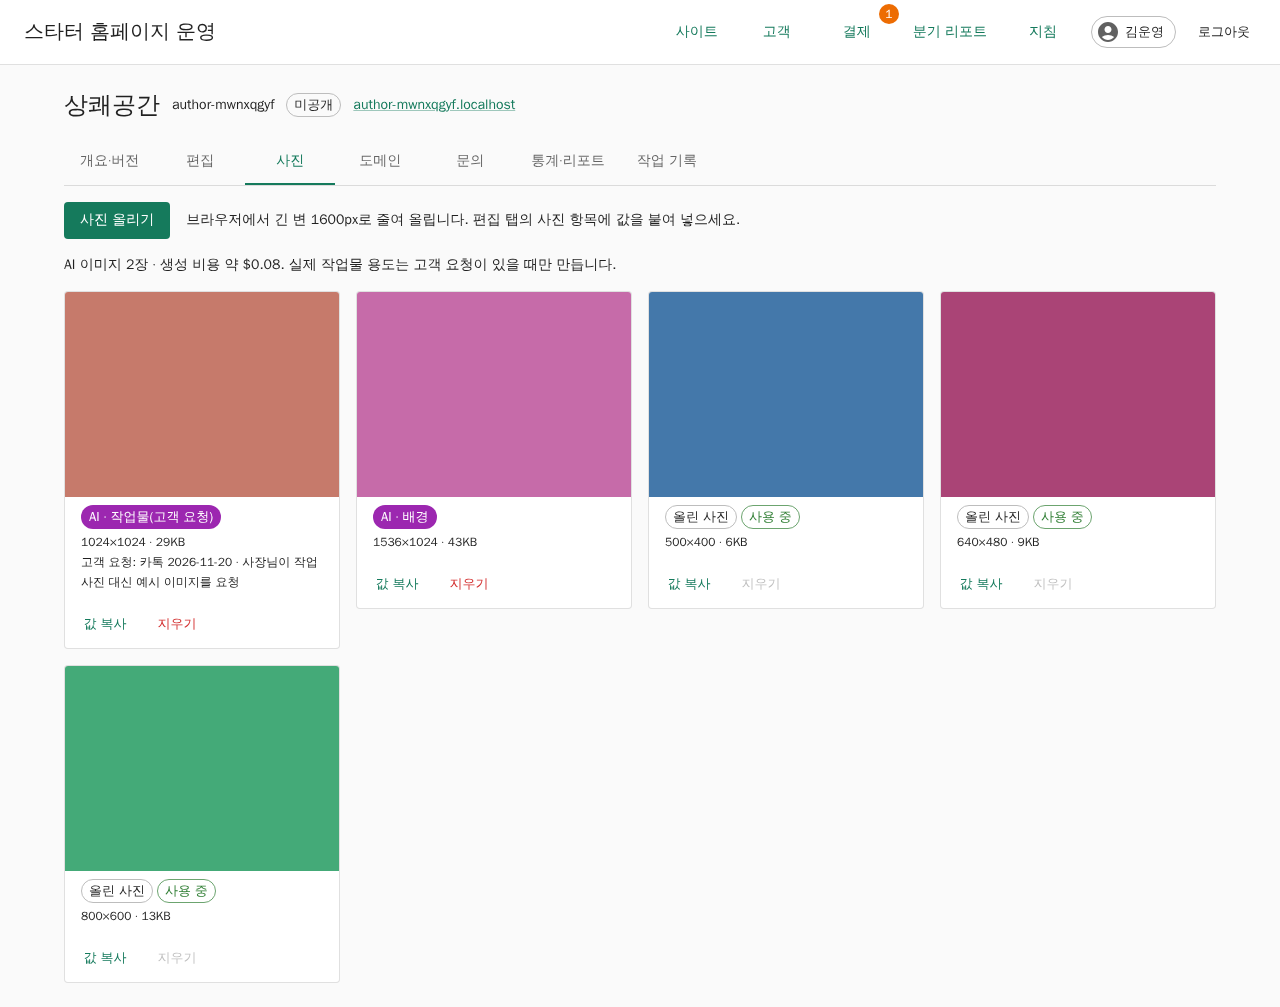
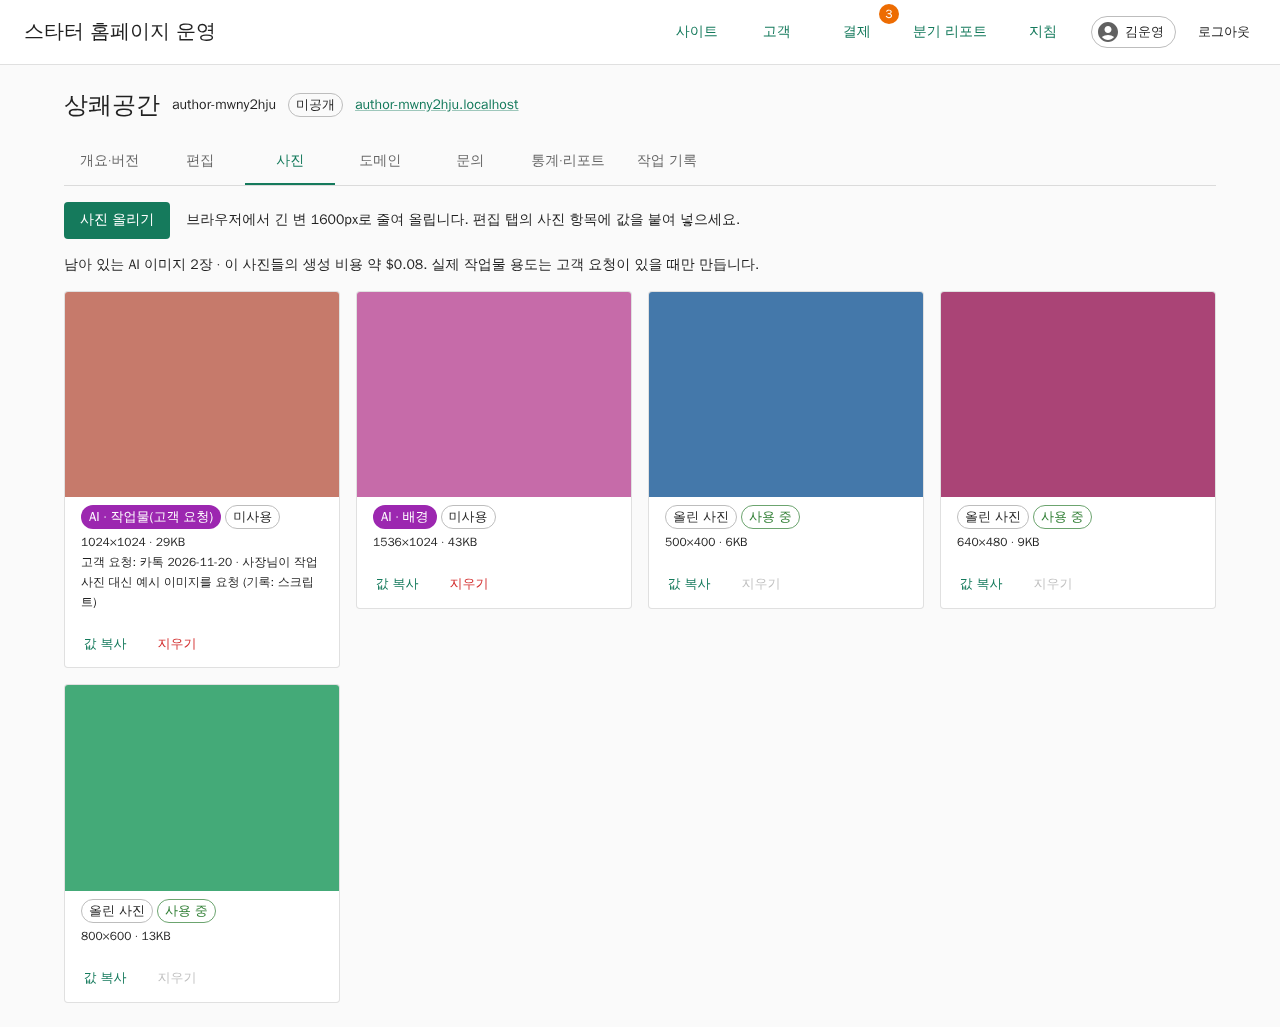
fix: authoring findings from the product-owner test
- 'AI 도구 연결 방법' page: the connection address (console setting
  MCP_URL), steps for Claude and ChatGPT, a first request to copy; linked
  from the sites list. Customers page says who registers customers.
- Activity log shows what AI calls did (an image's purpose, which photo
  was deleted, a replaced draft link); a customer request keeps the
  operator who recorded it.
- Photos: 미사용 marks, cost labelled as the remaining AI images, AI-image
  deletion warns it cannot be recreated. Plainer guides hint; script-made
  versions show 스크립트.
- Agent run: a headless agent built a validated draft through MCP in
  2m33s, 17 turns, $0.87 (M2: 3m17s, $1.02), with customer, guides, an
  AI illustration and a draft link (evidence/m4-authoring/agent-run.md).

Claude-Session: https://claude.ai/code/session_01Uc2o5SHdK7QwPtV2EwnCqy

diff --git a/apps/console/src/pages/AiToolsPage.tsx b/apps/console/src/pages/AiToolsPage.tsx
@@ -1,0 +1,102 @@
+import ContentCopyIcon from "@mui/icons-material/ContentCopy";
+import { Alert, Box, Button, Link, Paper, Stack, Typography } from "@mui/material";
+import { useQuery } from "@tanstack/react-query";
+import { Link as RouterLink } from "react-router";
+import { useToast } from "../ui.js";
+
+const FIRST_REQUEST = `아래 리드로 스타터 홈페이지 시안을 만들어 줘. 게시는 하지 말고 시안 링크까지만.
+사이트 영문 주소는 (예: green-tennis)로 해 줘.
+
+(노션 리드 페이지 내용, 블로그·플레이스 주소, 받은 사진을 붙여 넣기)`;
+
+/** How operators connect Claude or ChatGPT to the platform's tools, in plain words. */
+export function AiToolsPage() {
+  const toast = useToast();
+  const me = useQuery({
+    queryKey: ["me"],
+    queryFn: async () => {
+      const res = await fetch("/auth/me");
+      return res.ok ? ((await res.json()) as { name: string | null; email: string | null; mcpUrl?: string | null }) : null;
+    },
+    staleTime: Infinity,
+  });
+  const url = me.data?.mcpUrl ?? null;
+  const copy = (text: string, done: string) => void navigator.clipboard.writeText(text).then(() => toast(done));
+  return (
+    <Stack spacing={2} sx={{ maxWidth: 820 }}>
+      <Typography variant="h5" sx={{ fontWeight: 700 }}>
+        AI 도구 연결 방법
+      </Typography>
+      <Typography variant="body2" color="text.secondary">
+        홈페이지는 Claude나 ChatGPT에 우리 제작 도구를 연결해 대화로 만듭니다. 한 번 연결하면 AI가 제작 지침을 읽고 고객 등록, 시안 작성, 시안 링크
+        발급까지 합니다. 운영자는 이 콘솔에서 검수·입금 확인·게시합니다. (기술 용어로는 이 연결을 MCP라고 합니다.)
+      </Typography>
+
+      <Paper sx={{ p: 2 }}>
+        <Typography variant="subtitle1" sx={{ fontWeight: 700 }}>
+          연결 주소
+        </Typography>
+        {url ? (
+          <Stack direction="row" spacing={1} sx={{ alignItems: "center", mt: 1 }}>
+            <Box component="code" sx={{ bgcolor: "grey.100", px: 1, py: 0.5, borderRadius: 1 }} data-testid="mcp-url">
+              {url}
+            </Box>
+            <Button size="small" startIcon={<ContentCopyIcon />} onClick={() => copy(url, "연결 주소를 복사했습니다")}>
+              복사
+            </Button>
+          </Stack>
+        ) : (
+          <Typography variant="body2" color="text.secondary">
+            연결 주소가 설정되지 않았습니다. 관리자에게 문의하세요.
+          </Typography>
+        )}
+        <Typography variant="body2" sx={{ mt: 1 }}>
+          로그인은 콘솔과 같은 회사 계정(Authentik)으로 합니다. 운영자 권한이 있어야 쓸 수 있고, AI가 한 일은 내 이름으로 작업 기록에 남습니다.
+        </Typography>
+      </Paper>
+
+      <Paper sx={{ p: 2 }}>
+        <Typography variant="subtitle1" sx={{ fontWeight: 700 }}>
+          Claude에 연결
+        </Typography>
+        <Box component="ol" sx={{ my: 1, pl: 3, "& li": { mb: 0.5 } }}>
+          <li>Claude 설정의 커넥터(Connectors)에서 사용자 지정 커넥터를 추가합니다.</li>
+          <li>이름은 "스타터 홈페이지", 주소는 위의 연결 주소를 붙여 넣습니다.</li>
+          <li>연결을 누르면 회사 계정 로그인 창이 뜹니다. 로그인하면 끝입니다.</li>
+          <li>대화를 시작할 때 이 커넥터가 켜져 있는지 확인합니다.</li>
+        </Box>
+      </Paper>
+
+      <Paper sx={{ p: 2 }}>
+        <Typography variant="subtitle1" sx={{ fontWeight: 700 }}>
+          ChatGPT에 연결
+        </Typography>
+        <Box component="ol" sx={{ my: 1, pl: 3, "& li": { mb: 0.5 } }}>
+          <li>ChatGPT 설정에서 커넥터(앱)를 추가합니다. 사용자 지정 커넥터는 개발자 모드가 필요할 수 있습니다.</li>
+          <li>주소에 연결 주소를 넣고, 인증 방식은 OAuth를 고릅니다.</li>
+          <li>회사 계정으로 로그인합니다.</li>
+        </Box>
+        <Alert severity="info">ChatGPT 연결은 실제 서버에서 아직 확인 전입니다. 막히면 Claude를 쓰세요.</Alert>
+      </Paper>
+
+      <Paper sx={{ p: 2 }}>
+        <Typography variant="subtitle1" sx={{ fontWeight: 700 }}>
+          첫 요청 예시
+        </Typography>
+        <Box component="pre" sx={{ bgcolor: "grey.100", p: 1.5, borderRadius: 1, whiteSpace: "pre-wrap", fontSize: 14 }}>
+          {FIRST_REQUEST}
+        </Box>
+        <Button size="small" startIcon={<ContentCopyIcon />} onClick={() => copy(FIRST_REQUEST, "예시를 복사했습니다")}>
+          예시 복사
+        </Button>
+        <Typography variant="body2" color="text.secondary" sx={{ mt: 1 }}>
+          AI가 따르는 규칙은{" "}
+          <Link component={RouterLink} to="/guides">
+            제작 지침
+          </Link>
+          에 있습니다. 결과는 사이트 목록에 바로 나타나고, 시안 링크는 사이트 개요에서 다시 확인할 수 있습니다.
+        </Typography>
+      </Paper>
+    </Stack>
+  );
+}

diff --git a/apps/api/src/mcp.ts b/apps/api/src/mcp.ts
@@ -127,7 +127,7 @@ function createServer(env: Env, actor: Actor) {
           .describe("purpose가 work일 때 필수: 사장님이 언제 어디서 무엇을 요청했는지"),
       }),
     },
-    async ({ site: ref, ...input }) => run(async () => ({ ...(await generateImage(env, await findSite(env, ref), input)) })),
+    async ({ site: ref, ...input }) => run(async () => ({ ...(await generateImage(env, await findSite(env, ref), input, actorName(actor))) })),
   );
 
   server.registerTool(
@@ -404,6 +404,14 @@ function rpcMessages(contentType: string, body: string): RpcMessage[] {
   });
 }
 
+/** What an AI call did, beyond its name, for the activity log (`purpose=work`, `key=m:…`). */
+function auditDetail(name: string, args: Record<string, unknown>): string | null {
+  if (name === "image_generate" && typeof args.purpose === "string") return `purpose=${args.purpose}`;
+  if (name === "asset_delete" && typeof args.key === "string") return `key=${args.key}`;
+  if (name === "site_preview_link" && args.reissue === true) return "replaced";
+  return null;
+}
+
 /**
  * `/mcp` endpoint. The caller is authenticated (Authentik operator or script); a fresh server
  * serves each request. Changing tool calls are audited with the person behind them and their
@@ -411,14 +419,15 @@ function rpcMessages(contentType: string, body: string): RpcMessage[] {
  * (tool refusals, input validation and unknown tools all arrive over HTTP 200).
  */
 export async function handleMcp(request: Request, env: Env, actor: Actor) {
-  const calls: { id: unknown; name: string; site: string | null }[] = [];
+  const calls: { id: unknown; name: string; site: string | null; detail: string | null }[] = [];
   if (request.method === "POST") {
     try {
       const body = (await request.clone().json()) as unknown;
       for (const message of Array.isArray(body) ? body : [body]) {
-        const m = message as { id?: unknown; method?: string; params?: { name?: string; arguments?: { site?: unknown } } };
+        const m = message as { id?: unknown; method?: string; params?: { name?: string; arguments?: Record<string, unknown> } };
         if (m?.method === "tools/call" && m.params?.name && !READ_ONLY.has(m.params.name)) {
-          calls.push({ id: m.id, name: m.params.name, site: typeof m.params.arguments?.site === "string" ? m.params.arguments.site : null });
+          const args = m.params.arguments ?? {};
+          calls.push({ id: m.id, name: m.params.name, site: typeof args.site === "string" ? args.site : null, detail: auditDetail(m.params.name, args) });
         }
       }
     } catch {
@@ -441,7 +450,7 @@ export async function handleMcp(request: Request, env: Env, actor: Actor) {
         : call.site
           ? ((await env.DB.prepare("SELECT id FROM sites WHERE slug = ?1 OR id = ?1").bind(call.site).first<{ id: string }>())?.id ?? null)
           : null;
-    await audit(env, actor, { action: `MCP ${call.name}`, siteId, target: call.site, status: streamed.ok ? (succeeded ? 200 : 422) : streamed.status });
+    await audit(env, actor, { action: `MCP ${call.name}`, siteId, target: call.detail ?? call.site, status: streamed.ok ? (succeeded ? 200 : 422) : streamed.status });
   }
   return new Response(body, streamed);
 }

diff --git a/apps/console/src/pages/site/PhotosTab.tsx b/apps/console/src/pages/site/PhotosTab.tsx
@@ -85,7 +85,8 @@ export function PhotosTab({ siteId }: { siteId: string }) {
       </Stack>
       {ai.length ? (
         <Typography variant="body2" color="text.secondary" data-testid="ai-summary">
-          AI 이미지 {ai.length}장{aiCost ? ` · 생성 비용 약 $${aiCost.toFixed(2)}` : ""}. 실제 작업물 용도는 고객 요청이 있을 때만 만듭니다.
+          남아 있는 AI 이미지 {ai.length}장{aiCost ? ` · 이 사진들의 생성 비용 약 $${aiCost.toFixed(2)}` : ""}. 실제 작업물 용도는 고객 요청이 있을 때만
+          만듭니다.
         </Typography>
       ) : null}
       <ErrorAlert error={assets.error ?? upload.error ?? discard.error} />
@@ -103,7 +104,11 @@ export function PhotosTab({ siteId }: { siteId: string }) {
                   ) : (
                     <Chip size="small" variant="outlined" label={asset.source === "url" ? "가져온 사진" : "올린 사진"} />
                   )}
-                  {asset.in_use ? <Chip size="small" color="success" variant="outlined" label="사용 중" /> : null}
+                  {asset.in_use ? (
+                    <Chip size="small" color="success" variant="outlined" label="사용 중" />
+                  ) : (
+                    <Chip size="small" variant="outlined" label="미사용" data-testid="unused-chip" />
+                  )}
                 </Stack>
                 <Typography variant="caption" color="text.secondary" sx={{ display: "block" }}>
                   {asset.width}×{asset.height} · {Math.round(asset.bytes / 1024)}KB
@@ -111,6 +116,7 @@ export function PhotosTab({ siteId }: { siteId: string }) {
                 {asset.customer_request ? (
                   <Typography variant="caption" color="text.secondary" sx={{ display: "block" }} data-testid="customer-request">
                     고객 요청: {asset.customer_request.channel} {asset.customer_request.requestedAt} · {asset.customer_request.summary}
+                    {asset.customer_request.recordedBy ? ` (기록: ${asset.customer_request.recordedBy})` : ""}
                   </Typography>
                 ) : null}
               </CardContent>
@@ -133,7 +139,10 @@ export function PhotosTab({ siteId }: { siteId: string }) {
       <Dialog open={confirm !== null} onClose={() => setConfirm(null)}>
         <DialogTitle>사진 지우기</DialogTitle>
         <DialogContent>
-          <DialogContentText>어느 버전에서도 쓰지 않는 사진입니다. 지우면 되돌릴 수 없습니다(같은 사진을 다시 올리면 됩니다).</DialogContentText>
+          <DialogContentText>
+            어느 버전에서도 쓰지 않는 사진입니다. 지우면 되돌릴 수 없습니다
+            {confirm?.source === "ai" ? "(AI 이미지는 같은 것을 다시 만들 수 없습니다)." : "(같은 사진 파일을 다시 올리면 됩니다)."}
+          </DialogContentText>
         </DialogContent>
         <DialogActions>
           <Button onClick={() => setConfirm(null)}>닫기</Button>

diff --git a/apps/console/src/pages/site/ActivityCard.tsx b/apps/console/src/pages/site/ActivityCard.tsx
@@ -48,10 +48,23 @@ const TOOLS: Record<string, string> = {
 
 /** Audit action (`POST /sites/:id/publish`, `MCP site_publish`) in words. */
 export function actionLabel(action: string, target: string | null = null) {
-  if (action === "POST /sites/:id/draft-link" && target === "replaced") return "시안 링크 새로 바꿈(예전 링크 막힘)";
+  const replaced = target === "replaced" && (action === "POST /sites/:id/draft-link" || action === "MCP site_preview_link");
+  if (replaced) return `${action.startsWith("MCP") ? "AI 도구: " : ""}시안 링크 새로 바꿈(예전 링크 막힘)`;
   const tool = /^MCP (.+)$/.exec(action)?.[1];
-  if (tool) return `AI 도구: ${TOOLS[tool] ?? tool}`;
-  return ACTIONS.find(([pattern]) => pattern.test(action))?.[1] ?? action;
+  const label = tool ? `AI 도구: ${TOOLS[tool] ?? tool}` : (ACTIONS.find(([pattern]) => pattern.test(action))?.[1] ?? action);
+  return `${label}${detailOf(target)}`;
+}
+
+const PURPOSE: Record<string, string> = { background: "배경", illustration: "일러스트", mood: "분위기", work: "작업물·고객 요청" };
+
+/** The extra the audit keeps for some actions: an AI image's purpose, the photo removed. */
+function detailOf(target: string | null) {
+  if (!target) return "";
+  const purpose = /^purpose=(\w+)$/.exec(target)?.[1];
+  if (purpose) return ` (${PURPOSE[purpose] ?? purpose})`;
+  const key = /^key=m:[^/]+\/([a-f0-9]+)\.jpg$/.exec(target)?.[1];
+  if (key) return ` (사진 ${key.slice(0, 8)}…)`;
+  return "";
 }
 
 const who = (e: Entry) => (e.actor_type === "script" ? "스크립트" : `${e.actor_name ?? "운영자"}${e.via === "mcp" ? " (AI 도구)" : ""}`);

diff --git a/apps/api/src/images.ts b/apps/api/src/images.ts
@@ -7,7 +7,12 @@ import type { SiteRow } from "./store.js";
 export { PURPOSES, SIZES } from "./openai-images.js";
 
 /** Generates an image under the policy (openai-images.ts) and stores it like any photo. */
-export async function generateImage(env: Env, site: SiteRow, input: ImageInput): Promise<AssetResult & { aiGenerated: true; purpose: Purpose }> {
+export async function generateImage(
+  env: Env,
+  site: SiteRow,
+  input: ImageInput,
+  recordedBy: string | null = null,
+): Promise<AssetResult & { aiGenerated: true; purpose: Purpose }> {
   if (site.cancelled_at) throw new HttpError(409, "해지된 사이트에는 사진을 만들 수 없습니다");
   checkPolicy(input);
   const bytes = await callOpenAi(env, input);
@@ -17,7 +22,8 @@ export async function generateImage(env: Env, site: SiteRow, input: ImageInput):
     name: `ai:${env.OPENAI_IMAGE_MODEL}`,
     prompt: input.prompt,
     purpose: input.purpose,
-    customerRequest: input.customerRequest ? JSON.stringify(input.customerRequest) : null,
+    // The request as the AI recorded it, plus the operator who ran the tool.
+    customerRequest: input.customerRequest ? JSON.stringify({ ...input.customerRequest, recordedBy }) : null,
     costUsd: Number.isFinite(cost) ? cost : null,
   });
   return { ...stored, aiGenerated: true, purpose: input.purpose };

diff --git a/apps/console/src/main.tsx b/apps/console/src/main.tsx
@@ -14,6 +14,7 @@ const PaymentsPage = lazy(() => import("./pages/billing/PaymentsPage.js").then((
 const CustomersPage = lazy(() => import("./pages/CustomersPage.js").then((m) => ({ default: m.CustomersPage })));
 const CustomerPage = lazy(() => import("./pages/CustomerPage.js").then((m) => ({ default: m.CustomerPage })));
 const GuidesPage = lazy(() => import("./pages/GuidesPage.js").then((m) => ({ default: m.GuidesPage })));
+const AiToolsPage = lazy(() => import("./pages/AiToolsPage.js").then((m) => ({ default: m.AiToolsPage })));
 import { ToastProvider } from "./ui.js";
 
 // Korean text for MUI components (the data grid gets its own in grid-locale.ts, loaded with it).
@@ -39,6 +40,7 @@ const router = createBrowserRouter([
       { path: "customers", element: <CustomersPage /> },
       { path: "customers/:customerId", element: <CustomerPage /> },
       { path: "guides/:slug?", element: <GuidesPage /> },
+      { path: "ai-tools", element: <AiToolsPage /> },
       { path: "sites/:siteId/:tab?", element: <SitePage /> },
     ],
   },

diff --git a/apps/console/src/pages/GuidesPage.tsx b/apps/console/src/pages/GuidesPage.tsx
@@ -62,7 +62,7 @@ export function GuidesPage() {
         제작 지침
       </Typography>
       <Typography variant="body2" color="text.secondary">
-        AI 도구가 사이트를 만들기 전에 읽는 문서입니다. 고칠 때는 AI 도구에 "작성 규칙의 사진 섹션을 이렇게 바꿔 줘"처럼 요청하세요(guide_update). 고칠 때마다 버전이 남습니다.
+        AI 도구가 사이트를 만들기 전에 읽는 문서입니다. 고칠 때는 AI 도구에 "작성 규칙의 '이미지 용도' 부분을 이렇게 바꿔 줘"처럼 말하면 됩니다. 고칠 때마다 누가 언제 고쳤는지 버전이 남습니다.
       </Typography>
       <ErrorAlert error={list.error ?? guide.error} />
       <Stack direction={{ xs: "column", md: "row" }} spacing={2} sx={{ alignItems: "flex-start" }}>

diff --git a/apps/console/worker/index.ts b/apps/console/worker/index.ts
@@ -15,6 +15,8 @@ interface Env {
   OIDC_CLIENT_SECRET?: string;
   /** Encrypts the session cookie. 32+ random characters, a secret in deployed environments. */
   SESSION_SECRET?: string;
+  /** Where operators connect Claude/ChatGPT (`https://api.dsites.kr/mcp`), shown in the help page. */
+  MCP_URL?: string;
 }
 
 interface Session {
@@ -308,7 +310,7 @@ export default {
 
     if (url.pathname === "/auth/me") {
       if (!current) return Response.json({ error: "로그인이 필요합니다" }, { status: 401 });
-      return store(Response.json({ name: current.session.name, email: current.session.email }));
+      return store(Response.json({ name: current.session.name, email: current.session.email, mcpUrl: env.MCP_URL ?? null }));
     }
 
     if (url.pathname === "/api" || url.pathname.startsWith("/api/")) {

diff --git a/apps/console/src/pages/SitesPage.tsx b/apps/console/src/pages/SitesPage.tsx
@@ -64,7 +64,10 @@ export function SitesPage() {
         사이트
       </Typography>
       <Typography variant="body2" color="text.secondary" data-testid="create-hint">
-        새 사이트는 AI 도구(Claude·ChatGPT에 연결한 MCP)로 만듭니다. AI는 고객 등록부터 시안 링크까지 하고, 운영자는 여기서 검수·입금 확인·게시합니다.
+        새 사이트는 AI 도구(Claude·ChatGPT)로 만듭니다. AI가 고객 등록부터 시안 링크까지 하고, 운영자는 여기서 검수·입금 확인·게시합니다.{" "}
+        <Link component={RouterLink} to="/ai-tools">
+          AI 도구 연결 방법
+        </Link>
       </Typography>
       <TextField
         type="search"

diff --git a/apps/console/src/pages/site/OverviewTab.tsx b/apps/console/src/pages/site/OverviewTab.tsx
@@ -143,8 +143,8 @@ export function OverviewTab({ siteId, site, versions }: { siteId: string; site: 
                     ) : null}
                   </TableCell>
                   <TableCell>
-                    {CREATOR[v.created_by] ?? v.created_by}
-                    {v.author ? ` · ${v.author}` : ""}
+                    {/* A script (fixed token) is not a person: say so instead of "운영자 · 스크립트". */}
+                    {v.author === "스크립트" ? "스크립트" : `${CREATOR[v.created_by] ?? v.created_by}${v.author ? ` · ${v.author}` : ""}`}
                   </TableCell>
                   <TableCell>{v.note ?? ""}</TableCell>
                   <TableCell>{kst(v.created_at)}</TableCell>

diff --git a/apps/console/src/api.ts b/apps/console/src/api.ts
@@ -129,7 +129,7 @@ export interface Asset {
   source: "upload" | "url" | "ai";
   prompt: string | null;
   purpose: "background" | "illustration" | "mood" | "work" | null;
-  customer_request: { channel: string; requestedAt: string; summary: string } | null;
+  customer_request: { channel: string; requestedAt: string; summary: string; recordedBy?: string | null } | null;
   cost_usd: number | null;
   /** Some version of some site refers to it (cannot be deleted). */
   in_use: boolean;

diff --git a/apps/console/src/pages/CustomersPage.tsx b/apps/console/src/pages/CustomersPage.tsx
@@ -50,6 +50,9 @@ export function CustomersPage() {
           고객 추가
         </Button>
       </Stack>
+      <Typography variant="body2" color="text.secondary">
+        고객(사장님)은 AI 도구가 시안을 만들면서 등록하거나, 여기서 직접 추가합니다. 같은 연락처의 고객이 있으면 알려 줍니다.
+      </Typography>
       <TextField
         type="search"
         size="small"
